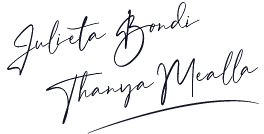
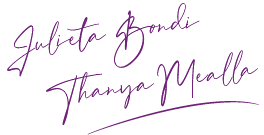
Modo Oscuro funcionando

diff --git a/css/estilos.css b/css/estilos.css
@@ -5,6 +5,62 @@
 }
 
 
+
+nav {
+    padding: 10px;
+}
+
+header {
+    height: 10vh;
+    display: flex;
+    flex-direction: column;
+    justify-content: center;
+    align-items: center;
+    background-color: #c49ee3;
+}
+
+main {
+    height: 90vh;
+    position: relative;
+    background-color: e0d2f0;
+}
+
+aside {
+    width: 15%;
+    padding: 30px;
+    display: flex;
+    flex-direction: column;
+    background-color: #d7b6f2;;
+}
+
+.btn {
+    margin: 0 10px;
+    background-color: transparent;
+    border: none;
+}
+
+#contenedor {
+    display: flex;
+    width: 100%;
+}
+
+#contenedor div {
+    width: 85%;
+}
+
+/* Sección de Texto */
+
+#texto {
+    display: none;
+}
+
+/* Clases Específicas del Modo Oscuro */
+
+
+.modoOscuro {
+    color: #c8c2f2;
+}
+
 .modoOscuro header{
     background-color: #101124;
 }
@@ -17,56 +73,12 @@
     background-color: #181a42;
 }
 
-.modoOscuro{
-    color: #c8c2f2;
-}
-
 .modoOscuro .btn{
-    background-color: transparent;
-    border: none;
     color: #c8c2f2
 }
 
-.btn{
-    margin: 0 10px;
-}
 
-nav{
-    padding: 10px;
-}
-
-header{
-    height: 10vh;
-    display: flex;
-    flex-direction: column;
-    justify-content: center;
-    align-items: center;
-}
-
-main{
-    height: 90vh;
-    position: relative;
-}
-
-aside{
-    width: 15%;
-    padding: 30px;
-    display: flex;
-    flex-direction: column;
-}
-
-#contenedor{
-    display: flex;
-    width: 100%;
-}
-
-#contenedor div{
-    width: 85%;
-}
-
-#texto{
-    display:none;
-}
+/* Imagen con firma */
 
 .firma{
     position: absolute;

diff --git a/index.html b/index.html
@@ -15,7 +15,7 @@
             <nav>
                 <button class="btn">Imagen</button>
                 <button class="btn">Texto</button>
-                <button class="btn">Modo Oscuro</button>
+                <button class="btn btnOscuro">Modo Oscuro</button>
             </nav>
         </header>
         <main>
@@ -131,7 +131,7 @@
                 <div>
                     <button>Ninguno</button>
                     <button>Claro</button>
-                    <button>Oscuro</button>
+                    <button class="btnOscuro" onclick="cambiarModo">Oscuro</button>
                 </div>
 
                 <label for="espaciado">Espaciado</label>
@@ -152,5 +152,6 @@
         </section>
     </aside>
     </div>
+    <script src="js/app.js"></script>
 </body>
 </html>

diff --git a/js/app.js b/js/app.js
@@ -1,0 +1,21 @@
+let btnOscuro = document.querySelector(".btnOscuro");
+let body = document.querySelector("body");
+let firma = document.querySelector(".firma");
+let modoOscuro = true;
+
+
+
+// function cambiar Modo Color
+
+btnOscuro.addEventListener("click", function(){
+    body.classList.toggle("modoOscuro");
+    modoOscuro = !modoOscuro;
+    if(modoOscuro){
+        firma.setAttribute("src", "img/firma_moscuro.png")  
+    }else{
+        firma.setAttribute("src", "img/firma_mclaro.png")  
+    }
+})
+
+
+
